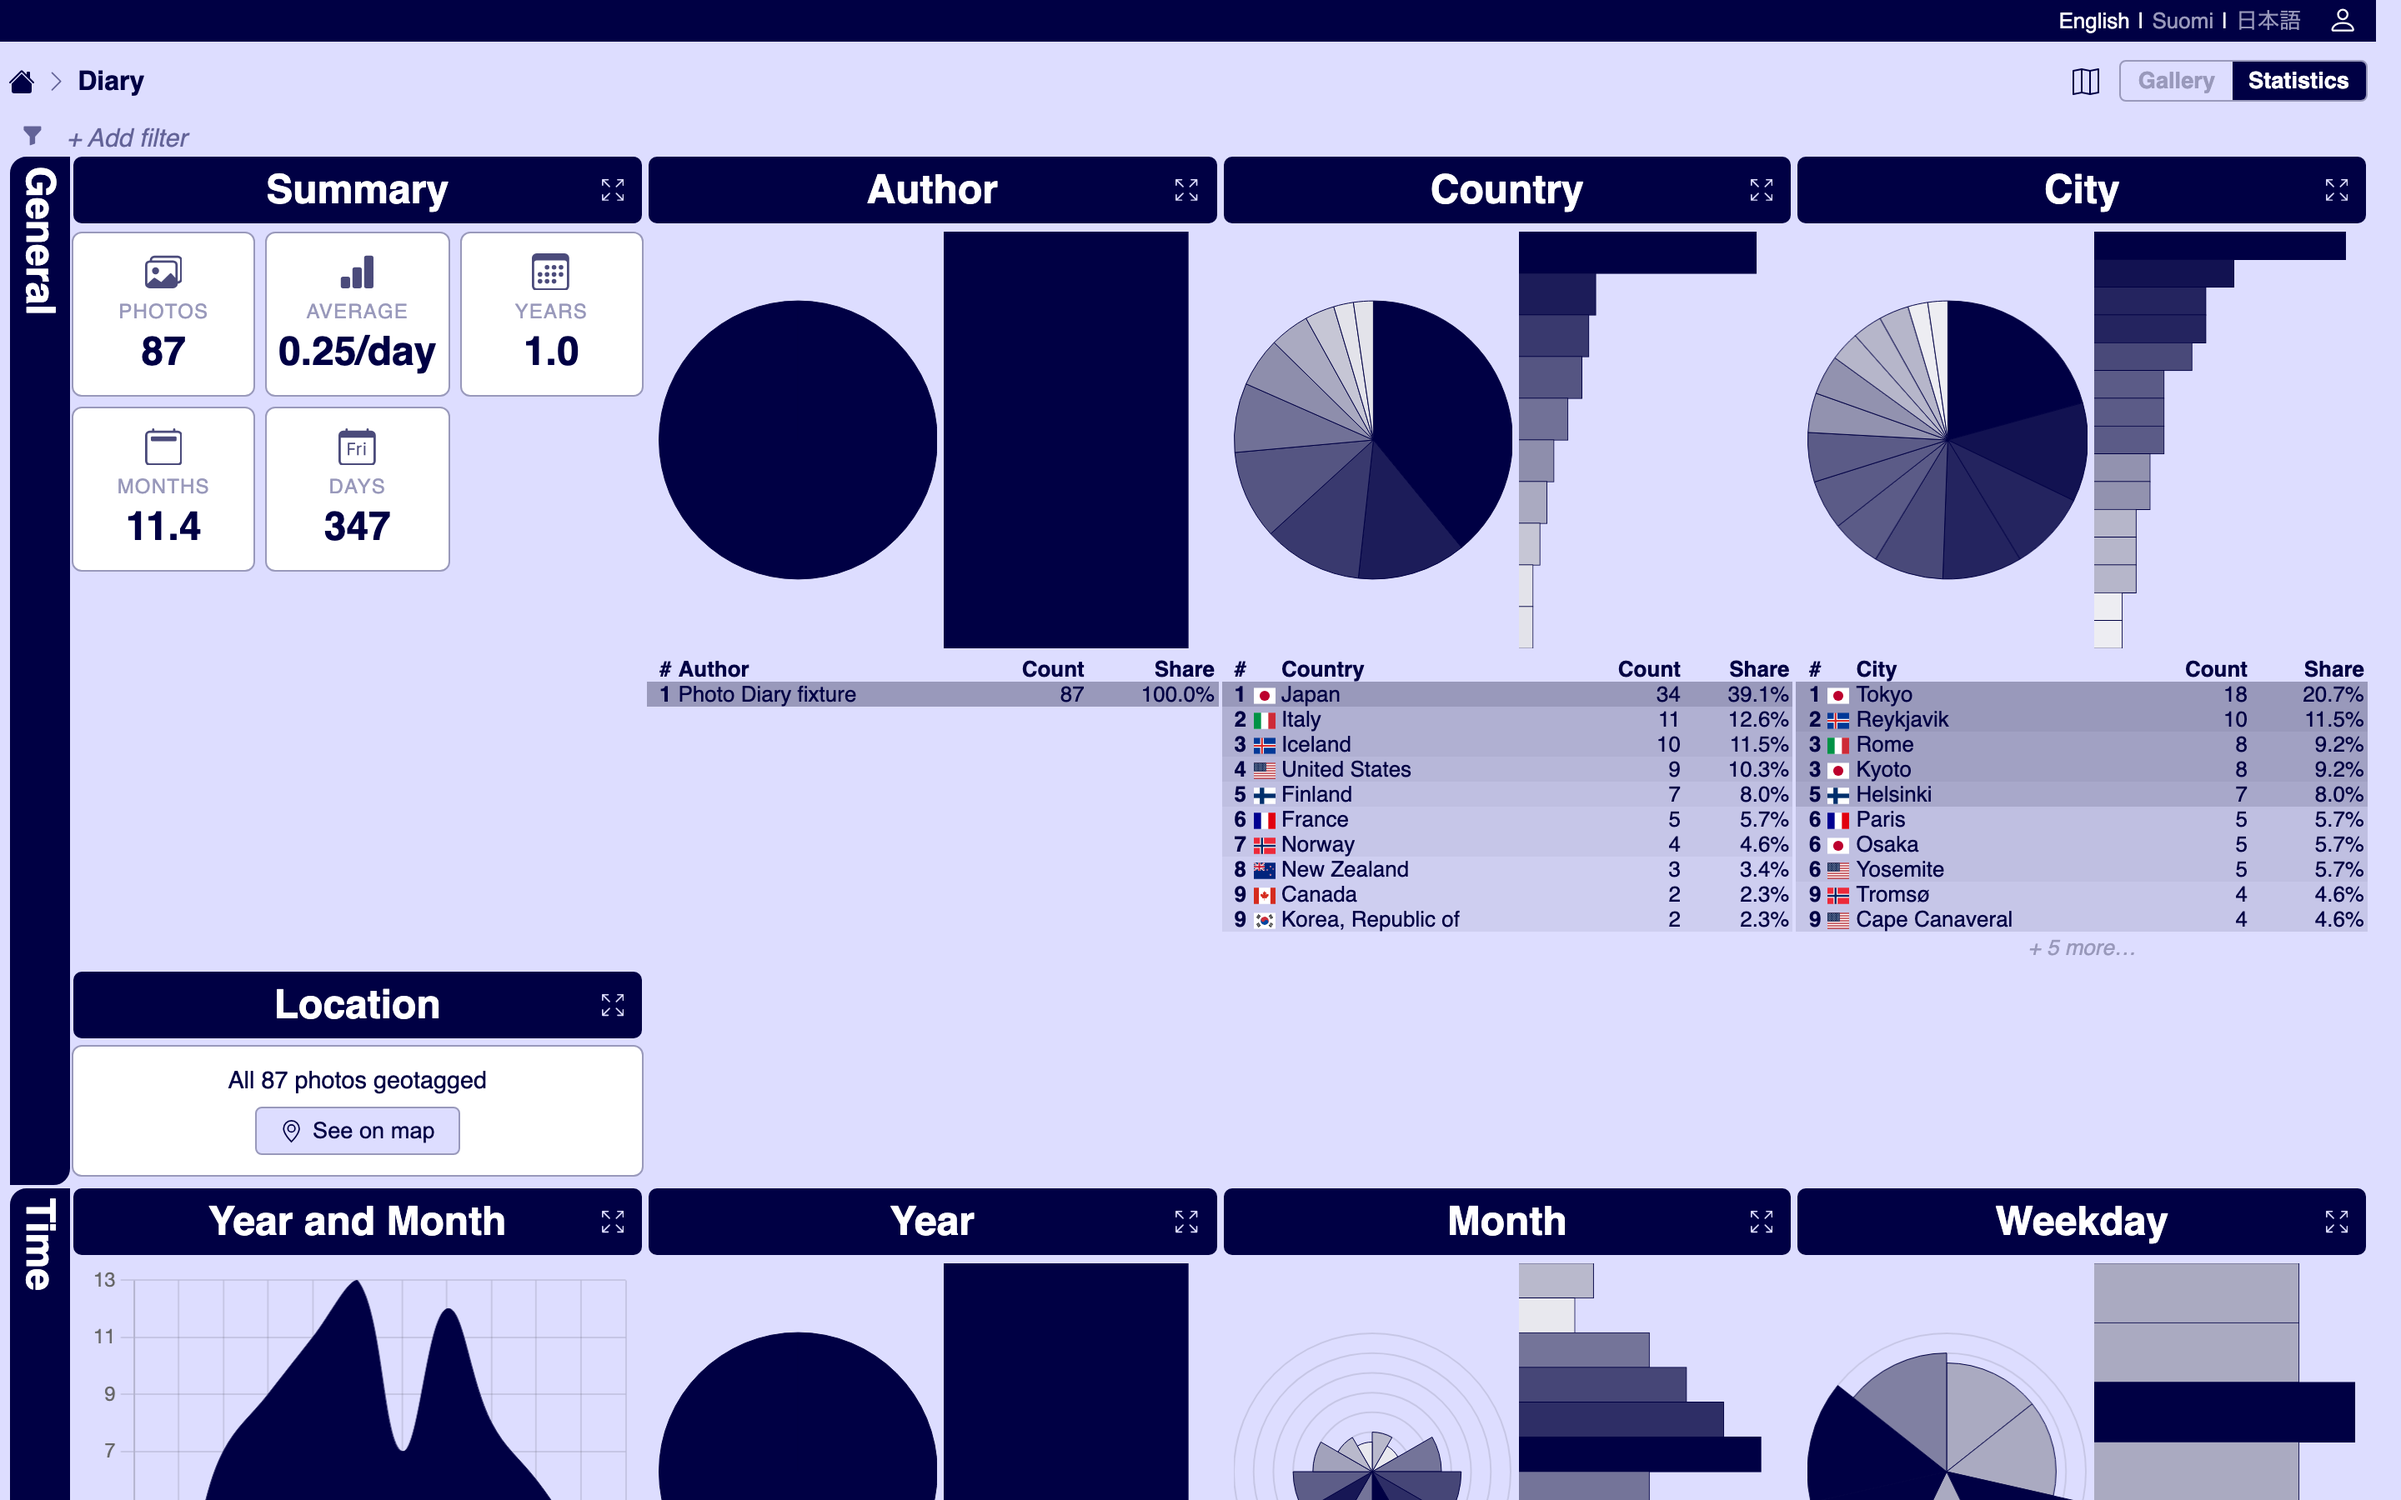
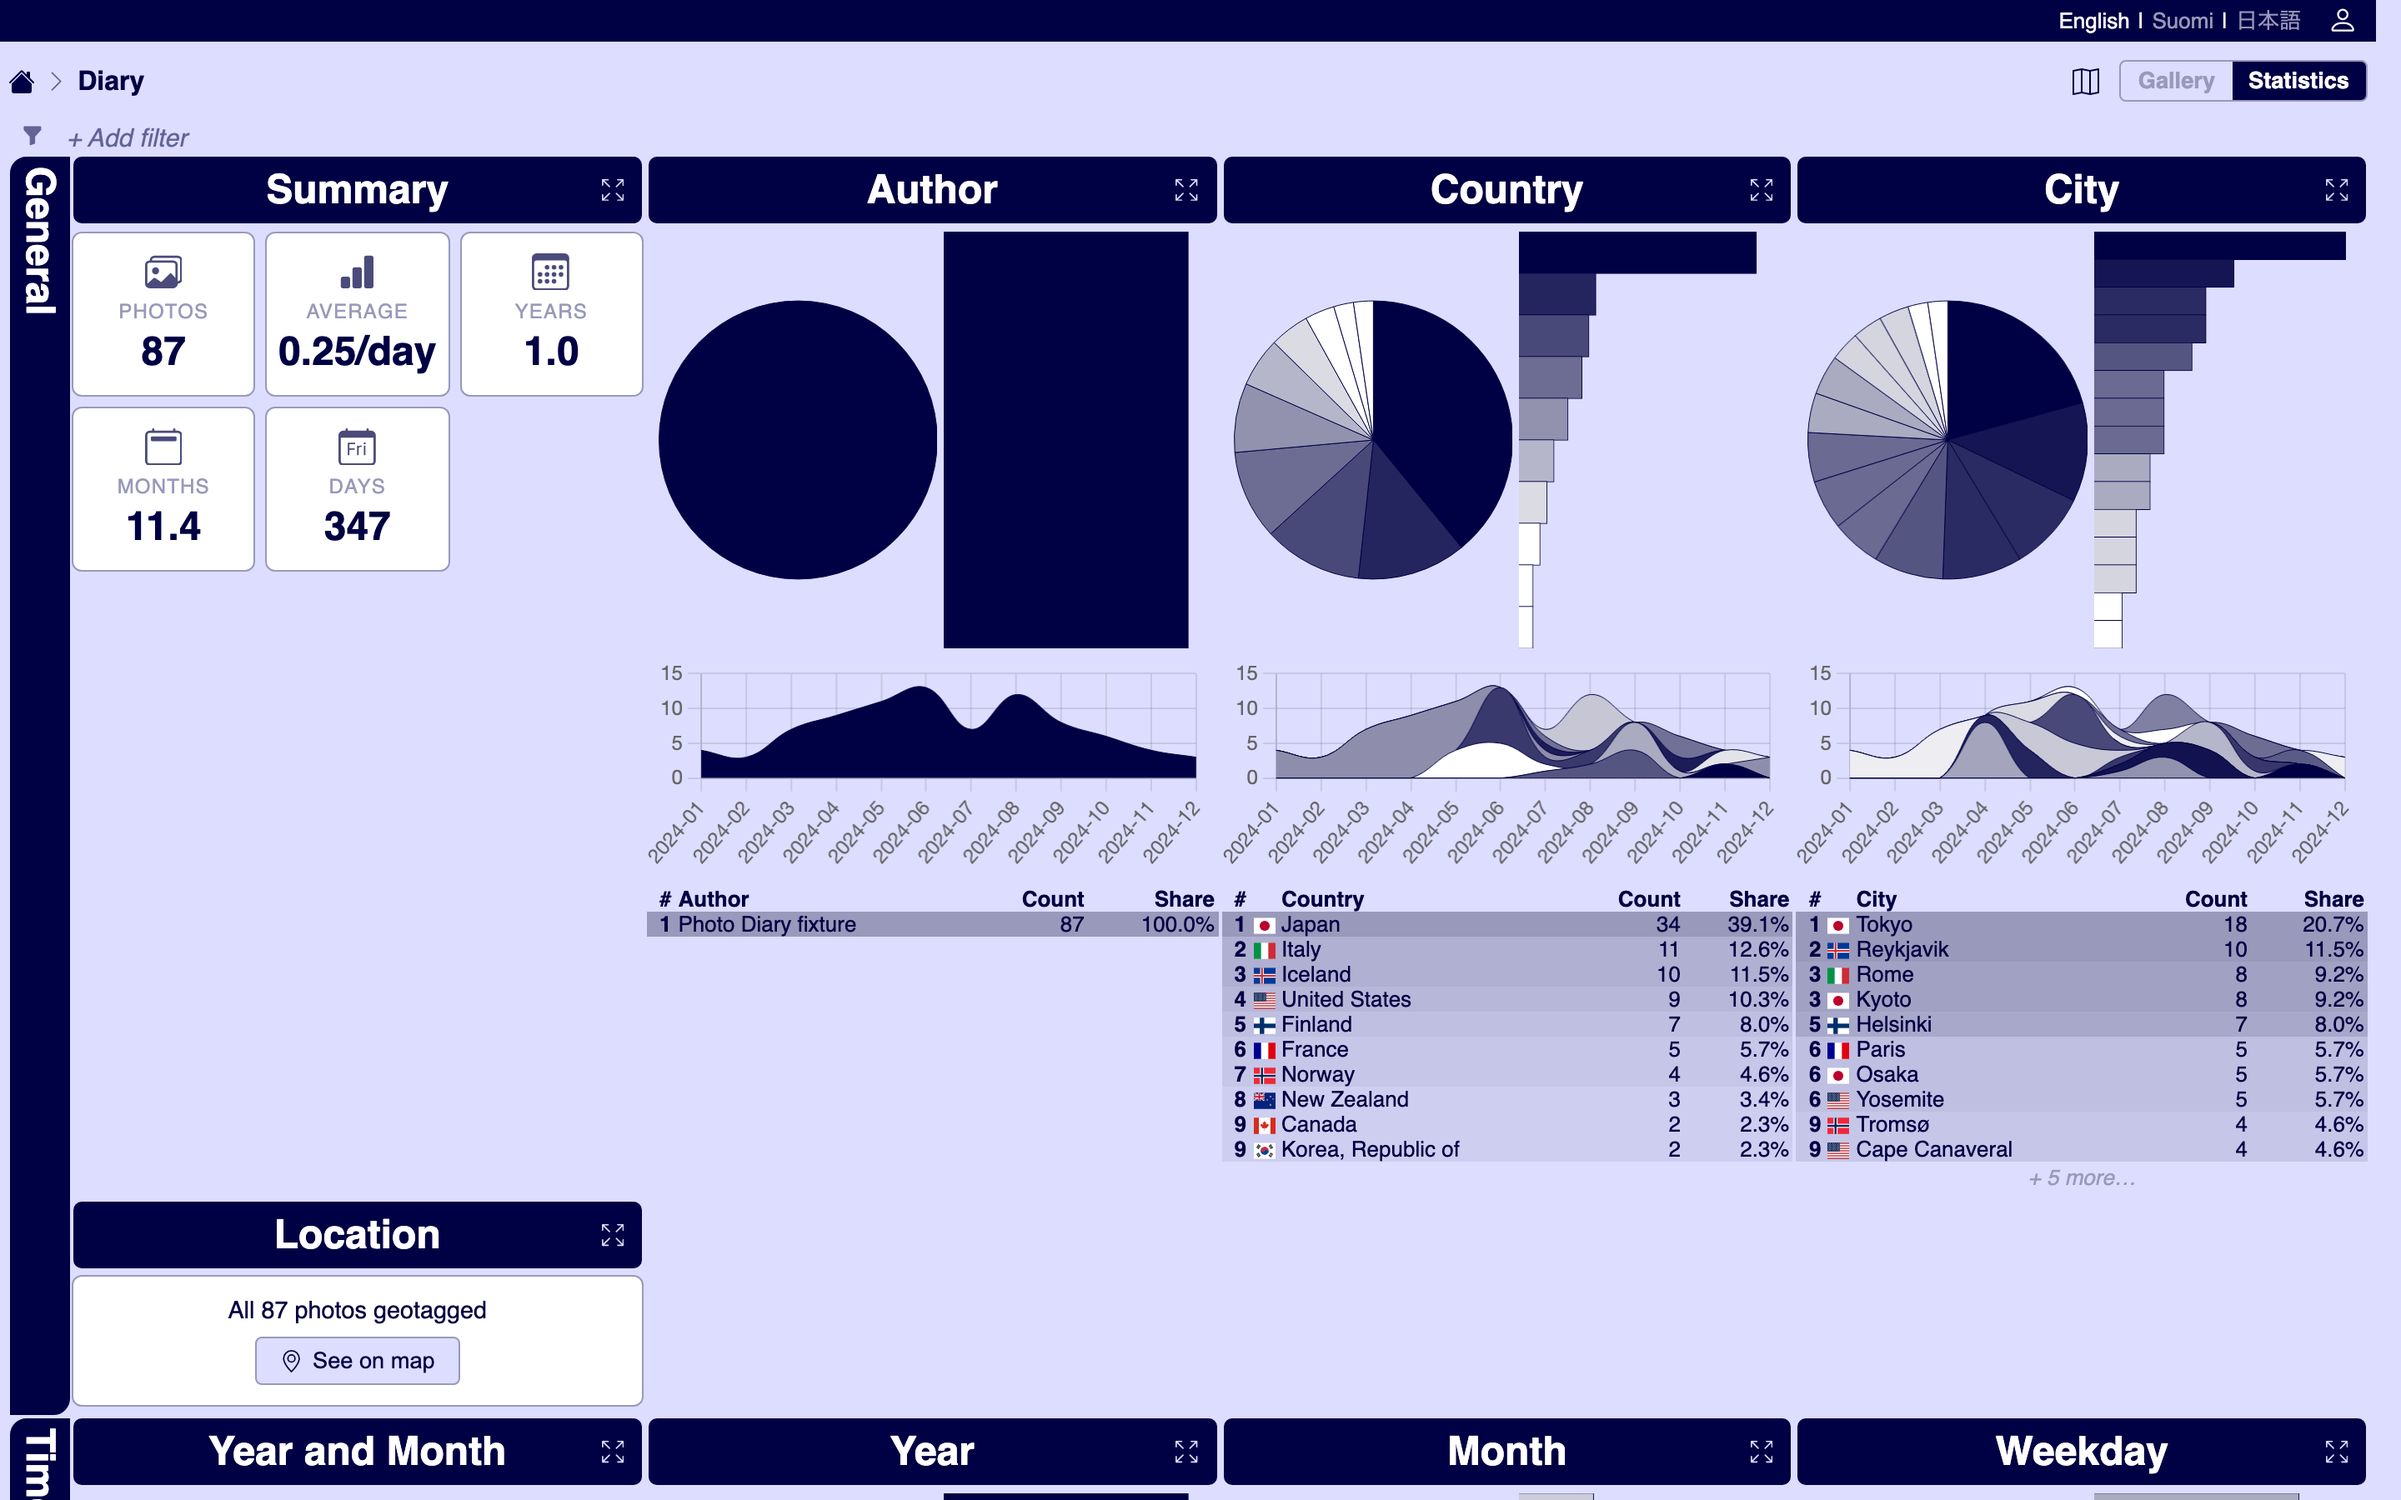
Docs: refresh the stats screenshot for the compact evolution strips
04-stats.png predates the inline "over time" charts under each
category card (1.0.5). Recaptured via the fixture pipeline
(seed.mjs → npm run build → capture.mjs) after re-seeding so the
runtime DB is on the current schema. The other three captures came
out visually identical — only map-tile bytes differed — so they are
left untouched rather than churning binaries in history.

Caption in docs/screenshots.md now mentions the strips.

diff --git a/docs/screenshots.md b/docs/screenshots.md
@@ -24,6 +24,6 @@ Full-screen photo with the corner Photo Details panel — EXIF (camera / lens / 
 
 ## Statistics
 
-Per-gallery stats — Summary tile (photos / average per day / years / months / days), Author / Country / City donuts, Location card, and the start of the Time row (Year and Month, Year, Month, Weekday). Each chart segment is clickable as a filter; scrolling continues with Hour, Gear, Exposure, and Image topics.
+Per-gallery stats — Summary tile (photos / average per day / years / months / days), Author / Country / City donuts each with a compact "over time" strip beneath (month granularity; the expanded view adds a month / year toggle), Location card, and the start of the Time row (Year and Month, Year, Month, Weekday). Each chart segment is clickable as a filter; scrolling continues with Hour, Gear, Exposure, and Image topics.
 
 ![Statistics](screenshots/04-stats.png)
